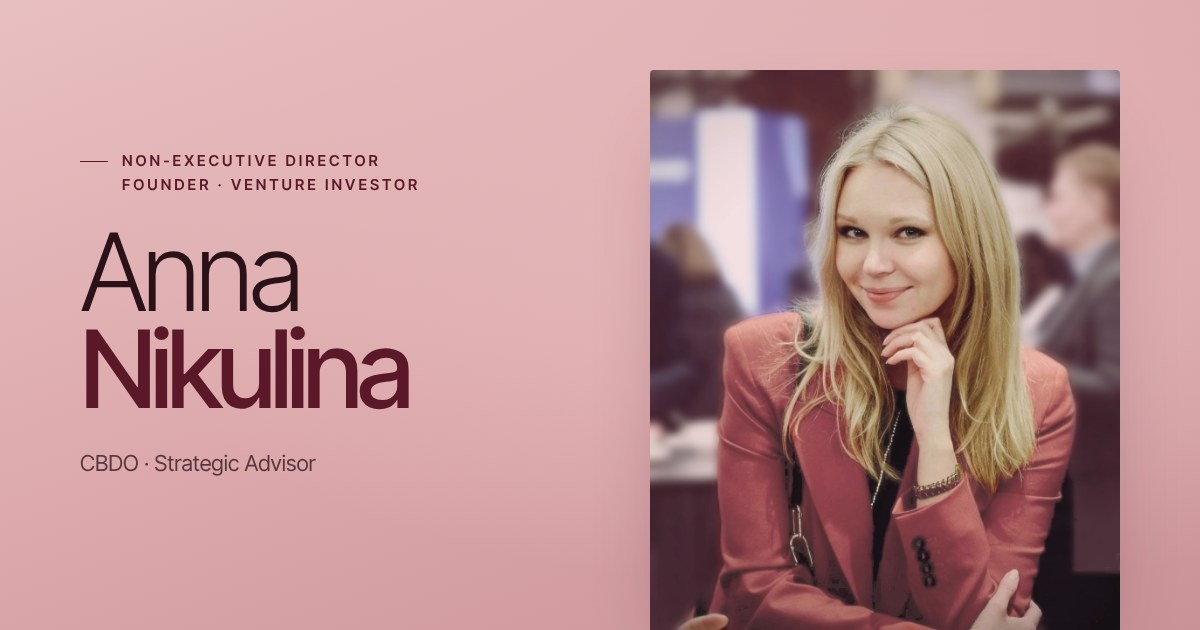
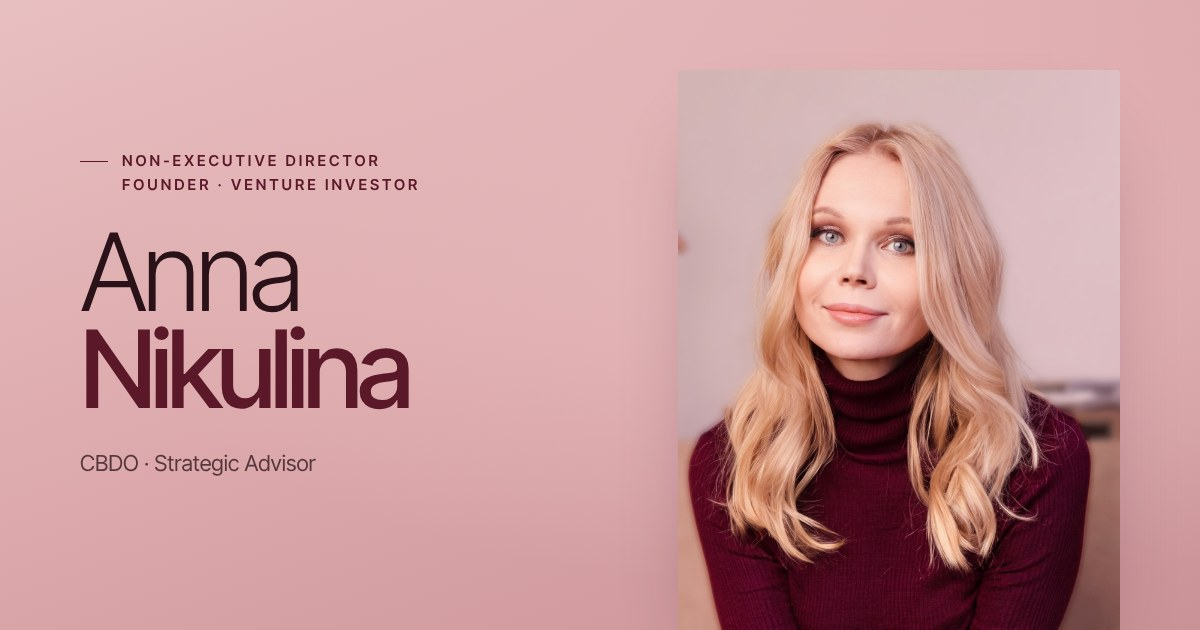
New portrait (home photo, light background blur, sofa toned to rose); DNS check against authoritative servers
Claude-Session: https://claude.ai/code/session_017zF6NKWSFQoNCEWFPX3gsG

diff --git a/annanikulina/index.html b/annanikulina/index.html
@@ -24,7 +24,7 @@
 <link rel="me" href="https://www.youtube.com/@STRATEGYNikulina">
 <link rel="me" href="https://rutube.ru/channel/30327202">
 <link rel="sitemap" type="application/xml" href="https://www.annanikulina.pro/sitemap.xml">
-<script type="application/ld+json">{"@context":"https://schema.org","@graph":[{"@type":"ProfilePage","@id":"https://www.annanikulina.pro/annanikulina/#page","url":"https://www.annanikulina.pro/annanikulina/","name":"Анна Никулина | Независимый директор, Advisory Board, венчурный инвестор","description":"Анна Никулина: независимый директор, Advisory Board Member, венчурный инвестор. 13+ лет в банках ТОП-10 РФ. Корпоративное управление, риски, финтех, MENA.","inLanguage":"ru-RU","dateModified":"2026-11-23","isPartOf":{"@id":"https://www.annanikulina.pro/#website"},"mainEntity":{"@id":"https://www.annanikulina.pro/#person"},"primaryImageOfPage":"https://www.annanikulina.pro/assets/img/anna-portrait-event.jpg"},{"@type":"WebSite","@id":"https://www.annanikulina.pro/#website","url":"https://www.annanikulina.pro/","name":"Анна Никулина","inLanguage":["ru-RU","en-US"]},{"@type":"Person","@id":"https://www.annanikulina.pro/#person","name":"Анна Никулина","alternateName":["Anna Nikulina"],"givenName":"Анна","familyName":"Никулина","url":"https://www.annanikulina.pro/annanikulina/","image":"https://www.annanikulina.pro/assets/img/anna-portrait-event.jpg","description":"Анна Никулина: независимый директор, Advisory Board Member, венчурный инвестор. 13+ лет в банках ТОП-10 РФ. Корпоративное управление, риски, финтех, MENA.","jobTitle":["Независимый директор","Основатель","Advisory Board Member","Советник по стратегическому развитию","Директор по развитию","Венчурный инвестор"],"knowsAbout":["Корпоративное управление","Работа совета директоров","Независимый директор","Риск-менеджмент","Кредитные риски","Корпоративное кредитование","Антикризисное управление","Стратегическое развитие бизнеса","Венчурные инвестиции","Финтех","Краудфандинг","M&A","Due diligence","Цифровая трансформация","Рынок MENA","GR и регулирование"],"knowsLanguage":["ru","en"],"memberOf":{"@type":"Organization","name":"Ассоциация независимых директоров (АНД)"},"homeLocation":{"@type":"Place","name":"Москва"},"sameAs":["https://www.linkedin.com/in/anna-nikulina-cbdo/","https://t.me/STRATEGYNikulina","https://t.me/Anna_Niku","https://www.youtube.com/@STRATEGYNikulina","https://rutube.ru/channel/30327202"]},{"@type":"ItemList","name":"Видео","itemListElement":[{"@type":"ListItem","position":1,"item":{"@type":"VideoObject","name":"Субсидиарная ответственность членов СД и собственников","description":"Субсидиарная ответственность членов СД и собственников. Гость: Павел Викторов","embedUrl":"https://rutube.ru/play/embed/118d6fa9727639e5040512ae6d32b4be","url":"https://rutube.ru/video/118d6fa9727639e5040512ae6d32b4be/"}},{"@type":"ListItem","position":2,"item":{"@type":"VideoObject","name":"Революция роботов","description":"Революция роботов. Гость: Артём Лукин","embedUrl":"https://rutube.ru/play/embed/0f608d7f2b0e4aaa801a74142903122b","url":"https://rutube.ru/video/0f608d7f2b0e4aaa801a74142903122b/"}},{"@type":"ListItem","position":3,"item":{"@type":"VideoObject","name":"Дом как сервис","description":"Дом как сервис. Гость: Артём Бабинов","embedUrl":"https://rutube.ru/play/embed/82245c10c63797b9d4839cec6b54728c","url":"https://rutube.ru/video/82245c10c63797b9d4839cec6b54728c/"}},{"@type":"ListItem","position":4,"item":{"@type":"VideoObject","name":"За кулисами M&A","description":"За кулисами M&A. Гость: Иван Скавыш","embedUrl":"https://rutube.ru/play/embed/9c4bf61b043f1e9871b5e467088dbe60","url":"https://rutube.ru/video/9c4bf61b043f1e9871b5e467088dbe60/"}},{"@type":"ListItem","position":5,"item":{"@type":"VideoObject","name":"Стратегия загородной жизни","description":"Стратегия загородной жизни. Гость: Евгений Антифеев","embedUrl":"https://rutube.ru/play/embed/722f7eb517eb702874613efbd3f16c28","url":"https://rutube.ru/video/722f7eb517eb702874613efbd3f16c28/"}},{"@type":"ListItem","position":6,"item":{"@type":"VideoObject","name":"Искусственный интеллект: билет в будущее","description":"Искусственный интеллект: билет в будущее. Гость: Тимур Эль-Гохари","embedUrl":"https://rutube.ru/play/embed/aa2cad4c1103fe543607f4f6108b470c","url":"https://rutube.ru/video/aa2cad4c1103fe543607f4f6108b470c/"}},{"@type":"ListItem","position":7,"item":{"@type":"VideoObject","name":"Как вывести бизнес в Китай","description":"Как вывести бизнес в Китай. Гость: Виктор Соковнин","embedUrl":"https://rutube.ru/play/embed/4b83cb5bb370456e2c958657fe2ba707","url":"https://rutube.ru/video/4b83cb5bb370456e2c958657fe2ba707/"}}]}]}</script>
+<script type="application/ld+json">{"@context":"https://schema.org","@graph":[{"@type":"ProfilePage","@id":"https://www.annanikulina.pro/annanikulina/#page","url":"https://www.annanikulina.pro/annanikulina/","name":"Анна Никулина | Независимый директор, Advisory Board, венчурный инвестор","description":"Анна Никулина: независимый директор, Advisory Board Member, венчурный инвестор. 13+ лет в банках ТОП-10 РФ. Корпоративное управление, риски, финтех, MENA.","inLanguage":"ru-RU","dateModified":"2026-11-23","isPartOf":{"@id":"https://www.annanikulina.pro/#website"},"mainEntity":{"@id":"https://www.annanikulina.pro/#person"},"primaryImageOfPage":"https://www.annanikulina.pro/assets/img/anna-portrait-home.jpg"},{"@type":"WebSite","@id":"https://www.annanikulina.pro/#website","url":"https://www.annanikulina.pro/","name":"Анна Никулина","inLanguage":["ru-RU","en-US"]},{"@type":"Person","@id":"https://www.annanikulina.pro/#person","name":"Анна Никулина","alternateName":["Anna Nikulina"],"givenName":"Анна","familyName":"Никулина","url":"https://www.annanikulina.pro/annanikulina/","image":"https://www.annanikulina.pro/assets/img/anna-portrait-home.jpg","description":"Анна Никулина: независимый директор, Advisory Board Member, венчурный инвестор. 13+ лет в банках ТОП-10 РФ. Корпоративное управление, риски, финтех, MENA.","jobTitle":["Независимый директор","Основатель","Advisory Board Member","Советник по стратегическому развитию","Директор по развитию","Венчурный инвестор"],"knowsAbout":["Корпоративное управление","Работа совета директоров","Независимый директор","Риск-менеджмент","Кредитные риски","Корпоративное кредитование","Антикризисное управление","Стратегическое развитие бизнеса","Венчурные инвестиции","Финтех","Краудфандинг","M&A","Due diligence","Цифровая трансформация","Рынок MENA","GR и регулирование"],"knowsLanguage":["ru","en"],"memberOf":{"@type":"Organization","name":"Ассоциация независимых директоров (АНД)"},"homeLocation":{"@type":"Place","name":"Москва"},"sameAs":["https://www.linkedin.com/in/anna-nikulina-cbdo/","https://t.me/STRATEGYNikulina","https://t.me/Anna_Niku","https://www.youtube.com/@STRATEGYNikulina","https://rutube.ru/channel/30327202"]},{"@type":"ItemList","name":"Видео","itemListElement":[{"@type":"ListItem","position":1,"item":{"@type":"VideoObject","name":"Субсидиарная ответственность членов СД и собственников","description":"Субсидиарная ответственность членов СД и собственников. Гость: Павел Викторов","embedUrl":"https://rutube.ru/play/embed/118d6fa9727639e5040512ae6d32b4be","url":"https://rutube.ru/video/118d6fa9727639e5040512ae6d32b4be/"}},{"@type":"ListItem","position":2,"item":{"@type":"VideoObject","name":"Революция роботов","description":"Революция роботов. Гость: Артём Лукин","embedUrl":"https://rutube.ru/play/embed/0f608d7f2b0e4aaa801a74142903122b","url":"https://rutube.ru/video/0f608d7f2b0e4aaa801a74142903122b/"}},{"@type":"ListItem","position":3,"item":{"@type":"VideoObject","name":"Дом как сервис","description":"Дом как сервис. Гость: Артём Бабинов","embedUrl":"https://rutube.ru/play/embed/82245c10c63797b9d4839cec6b54728c","url":"https://rutube.ru/video/82245c10c63797b9d4839cec6b54728c/"}},{"@type":"ListItem","position":4,"item":{"@type":"VideoObject","name":"За кулисами M&A","description":"За кулисами M&A. Гость: Иван Скавыш","embedUrl":"https://rutube.ru/play/embed/9c4bf61b043f1e9871b5e467088dbe60","url":"https://rutube.ru/video/9c4bf61b043f1e9871b5e467088dbe60/"}},{"@type":"ListItem","position":5,"item":{"@type":"VideoObject","name":"Стратегия загородной жизни","description":"Стратегия загородной жизни. Гость: Евгений Антифеев","embedUrl":"https://rutube.ru/play/embed/722f7eb517eb702874613efbd3f16c28","url":"https://rutube.ru/video/722f7eb517eb702874613efbd3f16c28/"}},{"@type":"ListItem","position":6,"item":{"@type":"VideoObject","name":"Искусственный интеллект: билет в будущее","description":"Искусственный интеллект: билет в будущее. Гость: Тимур Эль-Гохари","embedUrl":"https://rutube.ru/play/embed/aa2cad4c1103fe543607f4f6108b470c","url":"https://rutube.ru/video/aa2cad4c1103fe543607f4f6108b470c/"}},{"@type":"ListItem","position":7,"item":{"@type":"VideoObject","name":"Как вывести бизнес в Китай","description":"Как вывести бизнес в Китай. Гость: Виктор Соковнин","embedUrl":"https://rutube.ru/play/embed/4b83cb5bb370456e2c958657fe2ba707","url":"https://rutube.ru/video/4b83cb5bb370456e2c958657fe2ba707/"}}]}]}</script>
 <meta property="og:title" content="Анна Никулина | Независимый директор, Advisory Board, венчурный инвестор">
 <meta property="og:description" content="Анна Никулина: независимый директор, Advisory Board Member, венчурный инвестор. 13+ лет в банках ТОП-10 РФ. Корпоративное управление, риски, финтех, MENA.">
 <meta property="og:url" content="https://www.annanikulina.pro/annanikulina/">
@@ -38,7 +38,7 @@
 <meta name="twitter:image" content="https://www.annanikulina.pro/assets/img/og-cover.jpg">
 <link rel="icon" href="../assets/img/favicon.svg" type="image/svg+xml">
 <link rel="preload" href="../assets/fonts/inter-tight-cyrillic-300-normal.woff2" as="font" type="font/woff2" crossorigin>
-<link rel="preload" as="image" href="../assets/img/anna-portrait-event.jpg">
+<link rel="preload" as="image" href="../assets/img/anna-portrait-home.jpg">
 <link rel="stylesheet" href="../assets/site.css">
 <script>document.documentElement.classList.add('js')</script>
 </head>
@@ -67,7 +67,7 @@
         </div>
       </div>
       <div class="photo reveal d2" data-speed="-0.2">
-        <img src="../assets/img/anna-portrait-event.jpg" alt="Анна Никулина" width="1075" height="1280" fetchpriority="high">
+        <img src="../assets/img/anna-portrait-home.jpg" alt="Анна Никулина" width="1474" height="1866" fetchpriority="high">
         <div class="photo-tag"><b>15+</b>лет в управлении</div>
       </div>
     </div>

diff --git a/en/index.html b/en/index.html
@@ -24,7 +24,7 @@
 <link rel="me" href="https://www.youtube.com/@STRATEGYNikulina">
 <link rel="me" href="https://rutube.ru/channel/30327202">
 <link rel="sitemap" type="application/xml" href="https://www.annanikulina.pro/sitemap.xml">
-<script type="application/ld+json">{"@context":"https://schema.org","@graph":[{"@type":"ProfilePage","@id":"https://www.annanikulina.pro/en/#page","url":"https://www.annanikulina.pro/en/","name":"Anna Nikulina | Non-Executive Director & Venture Investor","description":"Anna Nikulina: non-executive director, advisory board member, venture investor. 13+ years at top-10 Russian banks. Governance, risk, fintech, MENA.","inLanguage":"en-US","dateModified":"2026-11-23","isPartOf":{"@id":"https://www.annanikulina.pro/#website"},"mainEntity":{"@id":"https://www.annanikulina.pro/#person"},"primaryImageOfPage":"https://www.annanikulina.pro/assets/img/anna-portrait-event.jpg"},{"@type":"WebSite","@id":"https://www.annanikulina.pro/#website","url":"https://www.annanikulina.pro/","name":"Anna Nikulina","inLanguage":["ru-RU","en-US"]},{"@type":"Person","@id":"https://www.annanikulina.pro/#person","name":"Anna Nikulina","alternateName":["Анна Никулина"],"givenName":"Anna","familyName":"Nikulina","url":"https://www.annanikulina.pro/en/","image":"https://www.annanikulina.pro/assets/img/anna-portrait-event.jpg","description":"Anna Nikulina: non-executive director, advisory board member, venture investor. 13+ years at top-10 Russian banks. Governance, risk, fintech, MENA.","jobTitle":["Non-Executive Director","Founder","Advisory Board Member","Strategic Advisor","Chief Business Development Officer","Venture Investor"],"knowsAbout":["Corporate governance","Board of directors","Non-executive director","Risk management","Credit risk","Corporate lending","Crisis management","Business strategy","Venture capital","Fintech","Crowdfunding","Mergers and acquisitions","Due diligence","Digital transformation","MENA markets","Regulatory policy"],"knowsLanguage":["ru","en"],"memberOf":{"@type":"Organization","name":"Association of Independent Directors (AID), Russia"},"homeLocation":{"@type":"Place","name":"Moscow"},"sameAs":["https://www.linkedin.com/in/anna-nikulina-cbdo/","https://t.me/STRATEGYNikulina","https://t.me/Anna_Niku","https://www.youtube.com/@STRATEGYNikulina","https://rutube.ru/channel/30327202"]},{"@type":"ItemList","name":"Videos","itemListElement":[{"@type":"ListItem","position":1,"item":{"@type":"VideoObject","name":"Subsidiary liability of board members and owners","description":"Subsidiary liability of board members and owners. Guest: Pavel Viktorov","embedUrl":"https://www.youtube-nocookie.com/embed/cvLB6uWxBnk","url":"https://www.youtube.com/watch?v=cvLB6uWxBnk","thumbnailUrl":"https://i.ytimg.com/vi/cvLB6uWxBnk/hqdefault.jpg"}},{"@type":"ListItem","position":2,"item":{"@type":"VideoObject","name":"The robot revolution","description":"The robot revolution. Guest: Artem Lukin","embedUrl":"https://www.youtube-nocookie.com/embed/VuuB7uzdvwo","url":"https://www.youtube.com/watch?v=VuuB7uzdvwo","thumbnailUrl":"https://i.ytimg.com/vi/VuuB7uzdvwo/hqdefault.jpg"}},{"@type":"ListItem","position":3,"item":{"@type":"VideoObject","name":"Home as a service","description":"Home as a service. Guest: Artem Babinov","embedUrl":"https://www.youtube-nocookie.com/embed/n84INQQOz0Q","url":"https://www.youtube.com/watch?v=n84INQQOz0Q","thumbnailUrl":"https://i.ytimg.com/vi/n84INQQOz0Q/hqdefault.jpg"}},{"@type":"ListItem","position":4,"item":{"@type":"VideoObject","name":"Behind the scenes of M&A","description":"Behind the scenes of M&A. Guest: Ivan Skavysh","embedUrl":"https://www.youtube-nocookie.com/embed/jWN5XPts_jQ","url":"https://www.youtube.com/watch?v=jWN5XPts_jQ","thumbnailUrl":"https://i.ytimg.com/vi/jWN5XPts_jQ/hqdefault.jpg"}},{"@type":"ListItem","position":5,"item":{"@type":"VideoObject","name":"A strategy for country living","description":"A strategy for country living. Guest: Evgeny Antifeev","embedUrl":"https://www.youtube-nocookie.com/embed/KyPmCVrwbLU","url":"https://www.youtube.com/watch?v=KyPmCVrwbLU","thumbnailUrl":"https://i.ytimg.com/vi/KyPmCVrwbLU/hqdefault.jpg"}},{"@type":"ListItem","position":6,"item":{"@type":"VideoObject","name":"Artificial intelligence: a ticket to the future","description":"Artificial intelligence: a ticket to the future. Guest: Timur El-Gohary","embedUrl":"https://www.youtube-nocookie.com/embed/8VpxzIJPAVs","url":"https://www.youtube.com/watch?v=8VpxzIJPAVs","thumbnailUrl":"https://i.ytimg.com/vi/8VpxzIJPAVs/hqdefault.jpg"}},{"@type":"ListItem","position":7,"item":{"@type":"VideoObject","name":"How to expand your business into China","description":"How to expand your business into China. Guest: Viktor Sokovnin","embedUrl":"https://www.youtube-nocookie.com/embed/xlhwJ3_e-nw","url":"https://www.youtube.com/watch?v=xlhwJ3_e-nw","thumbnailUrl":"https://i.ytimg.com/vi/xlhwJ3_e-nw/hqdefault.jpg"}}]}]}</script>
+<script type="application/ld+json">{"@context":"https://schema.org","@graph":[{"@type":"ProfilePage","@id":"https://www.annanikulina.pro/en/#page","url":"https://www.annanikulina.pro/en/","name":"Anna Nikulina | Non-Executive Director & Venture Investor","description":"Anna Nikulina: non-executive director, advisory board member, venture investor. 13+ years at top-10 Russian banks. Governance, risk, fintech, MENA.","inLanguage":"en-US","dateModified":"2026-11-23","isPartOf":{"@id":"https://www.annanikulina.pro/#website"},"mainEntity":{"@id":"https://www.annanikulina.pro/#person"},"primaryImageOfPage":"https://www.annanikulina.pro/assets/img/anna-portrait-home.jpg"},{"@type":"WebSite","@id":"https://www.annanikulina.pro/#website","url":"https://www.annanikulina.pro/","name":"Anna Nikulina","inLanguage":["ru-RU","en-US"]},{"@type":"Person","@id":"https://www.annanikulina.pro/#person","name":"Anna Nikulina","alternateName":["Анна Никулина"],"givenName":"Anna","familyName":"Nikulina","url":"https://www.annanikulina.pro/en/","image":"https://www.annanikulina.pro/assets/img/anna-portrait-home.jpg","description":"Anna Nikulina: non-executive director, advisory board member, venture investor. 13+ years at top-10 Russian banks. Governance, risk, fintech, MENA.","jobTitle":["Non-Executive Director","Founder","Advisory Board Member","Strategic Advisor","Chief Business Development Officer","Venture Investor"],"knowsAbout":["Corporate governance","Board of directors","Non-executive director","Risk management","Credit risk","Corporate lending","Crisis management","Business strategy","Venture capital","Fintech","Crowdfunding","Mergers and acquisitions","Due diligence","Digital transformation","MENA markets","Regulatory policy"],"knowsLanguage":["ru","en"],"memberOf":{"@type":"Organization","name":"Association of Independent Directors (AID), Russia"},"homeLocation":{"@type":"Place","name":"Moscow"},"sameAs":["https://www.linkedin.com/in/anna-nikulina-cbdo/","https://t.me/STRATEGYNikulina","https://t.me/Anna_Niku","https://www.youtube.com/@STRATEGYNikulina","https://rutube.ru/channel/30327202"]},{"@type":"ItemList","name":"Videos","itemListElement":[{"@type":"ListItem","position":1,"item":{"@type":"VideoObject","name":"Subsidiary liability of board members and owners","description":"Subsidiary liability of board members and owners. Guest: Pavel Viktorov","embedUrl":"https://www.youtube-nocookie.com/embed/cvLB6uWxBnk","url":"https://www.youtube.com/watch?v=cvLB6uWxBnk","thumbnailUrl":"https://i.ytimg.com/vi/cvLB6uWxBnk/hqdefault.jpg"}},{"@type":"ListItem","position":2,"item":{"@type":"VideoObject","name":"The robot revolution","description":"The robot revolution. Guest: Artem Lukin","embedUrl":"https://www.youtube-nocookie.com/embed/VuuB7uzdvwo","url":"https://www.youtube.com/watch?v=VuuB7uzdvwo","thumbnailUrl":"https://i.ytimg.com/vi/VuuB7uzdvwo/hqdefault.jpg"}},{"@type":"ListItem","position":3,"item":{"@type":"VideoObject","name":"Home as a service","description":"Home as a service. Guest: Artem Babinov","embedUrl":"https://www.youtube-nocookie.com/embed/n84INQQOz0Q","url":"https://www.youtube.com/watch?v=n84INQQOz0Q","thumbnailUrl":"https://i.ytimg.com/vi/n84INQQOz0Q/hqdefault.jpg"}},{"@type":"ListItem","position":4,"item":{"@type":"VideoObject","name":"Behind the scenes of M&A","description":"Behind the scenes of M&A. Guest: Ivan Skavysh","embedUrl":"https://www.youtube-nocookie.com/embed/jWN5XPts_jQ","url":"https://www.youtube.com/watch?v=jWN5XPts_jQ","thumbnailUrl":"https://i.ytimg.com/vi/jWN5XPts_jQ/hqdefault.jpg"}},{"@type":"ListItem","position":5,"item":{"@type":"VideoObject","name":"A strategy for country living","description":"A strategy for country living. Guest: Evgeny Antifeev","embedUrl":"https://www.youtube-nocookie.com/embed/KyPmCVrwbLU","url":"https://www.youtube.com/watch?v=KyPmCVrwbLU","thumbnailUrl":"https://i.ytimg.com/vi/KyPmCVrwbLU/hqdefault.jpg"}},{"@type":"ListItem","position":6,"item":{"@type":"VideoObject","name":"Artificial intelligence: a ticket to the future","description":"Artificial intelligence: a ticket to the future. Guest: Timur El-Gohary","embedUrl":"https://www.youtube-nocookie.com/embed/8VpxzIJPAVs","url":"https://www.youtube.com/watch?v=8VpxzIJPAVs","thumbnailUrl":"https://i.ytimg.com/vi/8VpxzIJPAVs/hqdefault.jpg"}},{"@type":"ListItem","position":7,"item":{"@type":"VideoObject","name":"How to expand your business into China","description":"How to expand your business into China. Guest: Viktor Sokovnin","embedUrl":"https://www.youtube-nocookie.com/embed/xlhwJ3_e-nw","url":"https://www.youtube.com/watch?v=xlhwJ3_e-nw","thumbnailUrl":"https://i.ytimg.com/vi/xlhwJ3_e-nw/hqdefault.jpg"}}]}]}</script>
 <meta property="og:title" content="Anna Nikulina | Non-Executive Director &amp; Venture Investor">
 <meta property="og:description" content="Anna Nikulina: non-executive director, advisory board member, venture investor. 13+ years at top-10 Russian banks. Governance, risk, fintech, MENA.">
 <meta property="og:url" content="https://www.annanikulina.pro/en/">
@@ -38,7 +38,7 @@
 <meta name="twitter:image" content="https://www.annanikulina.pro/assets/img/og-cover.jpg">
 <link rel="icon" href="../assets/img/favicon.svg" type="image/svg+xml">
 <link rel="preload" href="../assets/fonts/inter-tight-latin-300-normal.woff2" as="font" type="font/woff2" crossorigin>
-<link rel="preload" as="image" href="../assets/img/anna-portrait-event.jpg">
+<link rel="preload" as="image" href="../assets/img/anna-portrait-home.jpg">
 <link rel="stylesheet" href="../assets/site.css">
 <script>document.documentElement.classList.add('js')</script>
 </head>
@@ -67,7 +67,7 @@
         </div>
       </div>
       <div class="photo reveal d2" data-speed="-0.2">
-        <img src="../assets/img/anna-portrait-event.jpg" alt="Anna Nikulina" width="1075" height="1280" fetchpriority="high">
+        <img src="../assets/img/anna-portrait-home.jpg" alt="Anna Nikulina" width="1474" height="1866" fetchpriority="high">
         <div class="photo-tag"><b>15+</b>years in leadership</div>
       </div>
     </div>

diff --git a/tools/build.py b/tools/build.py
@@ -9,7 +9,7 @@ import datetime, html, json, os, re, sys
 
 ROOT = sys.argv[1] if len(sys.argv) > 1 else '.'
 BASE = 'https://www.annanikulina.pro'
-PORTRAIT = '../assets/img/anna-portrait-event.jpg'  # retouched by request: light background blur, rose grade; original kept as anna-portrait-event-original.jpg
+PORTRAIT = '../assets/img/anna-portrait-home.jpg'  # light bg blur, orange sofa toned to rose; original: anna-portrait-home-original.jpg
 OG_IMG = BASE + '/assets/img/og-cover.jpg'
 
 LINKEDIN = 'https://www.linkedin.com/in/anna-nikulina-cbdo/'
@@ -235,7 +235,7 @@ def json_ld(c, vids):
         'name': c['h1_1'] + ' ' + c['h1_2'],
         'alternateName': [other['h1_1'] + ' ' + other['h1_2']],
         'givenName': c['h1_1'], 'familyName': c['h1_2'],
-        'url': c['url'], 'image': BASE + '/assets/img/anna-portrait-event.jpg',
+        'url': c['url'], 'image': BASE + '/assets/img/anna-portrait-home.jpg',
         'description': c['description'],
         'jobTitle': c['job_titles'],
         'knowsAbout': c['knows_about'],
@@ -249,7 +249,7 @@ def json_ld(c, vids):
          'description': c['description'], 'inLanguage': 'ru-RU' if c['lang'] == 'ru' else 'en-US',
          'dateModified': datetime.date.today().isoformat(),
          'isPartOf': {'@id': BASE + '/#website'}, 'mainEntity': {'@id': BASE + '/#person'},
-         'primaryImageOfPage': BASE + '/assets/img/anna-portrait-event.jpg'},
+         'primaryImageOfPage': BASE + '/assets/img/anna-portrait-home.jpg'},
         {'@type': 'WebSite', '@id': BASE + '/#website', 'url': BASE + '/', 'name': c['h1_1'] + ' ' + c['h1_2'],
          'inLanguage': ['ru-RU', 'en-US']},
         person,
@@ -397,7 +397,7 @@ def page(c):
         </div>
       </div>
       <div class="photo reveal d2" data-speed="-0.2">
-        <img src="{PORTRAIT}" alt="{c['portrait_alt']}" width="1075" height="1280" fetchpriority="high">
+        <img src="{PORTRAIT}" alt="{c['portrait_alt']}" width="1474" height="1866" fetchpriority="high">
         <div class="photo-tag"><b>{c['tag_num']}</b>{c['tag_text']}</div>
       </div>
     </div>

diff --git a/CLAUDE.md b/CLAUDE.md
@@ -10,7 +10,7 @@
 - `annanikulina/index.html`, `en/index.html` — СГЕНЕРИРОВАННЫЕ файлы. Руками не править, пересобирать: `python3 tools/build.py .`
 - `assets/site.css` — дизайн. Палитра тон-в-тон с фото (оттенок 358°): фон первого экрана почти совпадает с фоном фото (#efcacb → #ebc4c5 → #d8adb2), пользователь просит держать их близкими, фон фото #ecc5c6, светлые блоки #fbf7f7 и #f6eeef, бордо #5a1828, тёмное вино #2c0b14, крем #fbf6f3. Шрифт Inter Tight (лежит в `assets/fonts/`). Без арок и антиквы: пользователю они не нравятся.
 - `assets/site.js` — параллакс (`data-speed` по вертикали, `data-x` по горизонтали, `data-fade`), сияние кнопок за курсором и звёздочки при наведении и клике (класс `glow`, слой `.sparkle-layer`); фоновые надписи мягкие (полупрозрачная заливка) и целиком в экране, появление блоков, меню, видео-плеер.
-- Портрет на сайте: `assets/img/anna-portrait-event.jpg` (1075x1280): по просьбе пользователя слегка размыт фон, мягкая розово-винная цветокоррекция, пиджак перекрашен из красного в пыльно-розовый (оттенок без сдвига, насыщенность ×0.64), лицо естественное. Оригинал: `anna-portrait-event-original.jpg`. Прежний портрет на розовом фоне: `anna-portrait.jpg` (его не редактировать). Пользователь не любит «ИИ-вид»: обработка должна быть минимальной и естественной.
+- Портрет на сайте: `assets/img/anna-portrait-home.jpg` (1474x1866): лёгкое размытие фона, оранжевый диван и предметы фона переведены в розовый тон, сама Анна не тронута. Оригинал: `anna-portrait-home-original.jpg`. Прежние варианты: `anna-portrait-event*.jpg`, `anna-portrait.jpg`. Пользователь не любит «ИИ-вид»: обработка минимальная и естественная.
 - `assets/img/og-cover.jpg` — превью для соцсетей 1200x630, `favicon.svg`.
 - Видео: `tools/fetch_videos.py` при каждой сборке на GitHub (и ежедневно) забирает списки роликов в `data/videos.json`: RU-страница показывает RuTube (YouTube в РФ работает с перебоями), EN-страница показывает YouTube. На сайте только полные выпуски (без тизеров и Shorts), ролик открывается во всплывающем плеере. С этого сервера YouTube и RuTube недоступны, список смотреть в логах GitHub Actions.
 - `index.html` в корне — редирект на `annanikulina/`.
